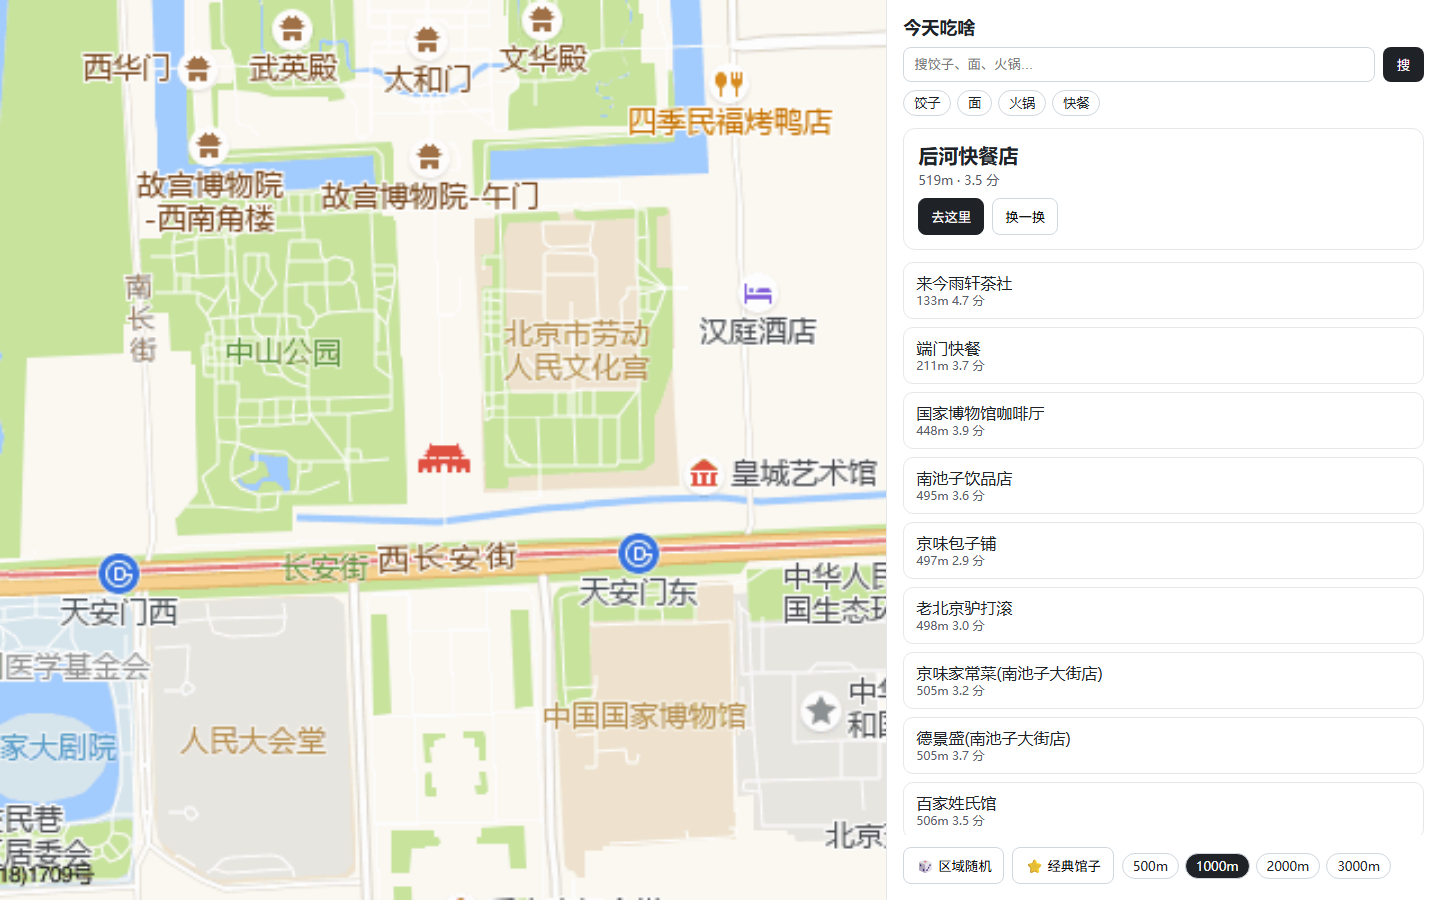
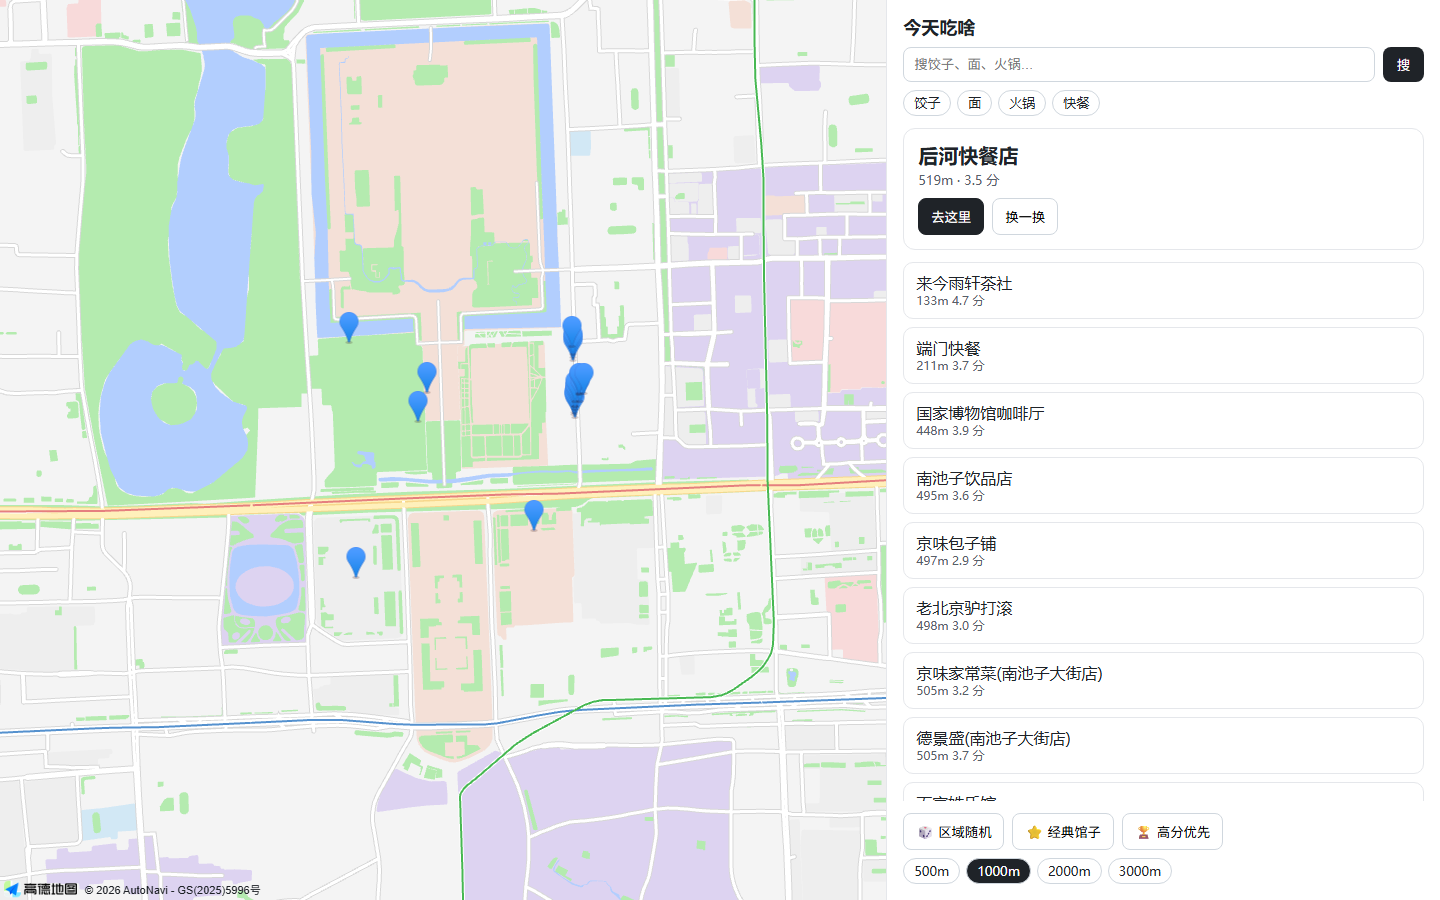
feat: 接入 JS API 交互地图与 /_AMapService 代理

diff --git a/web/app.js b/web/app.js
@@ -1,6 +1,6 @@
 const state = {
   config: null, lat: null, lng: null, radius: 1000, mode: 'area', nonce: 0,
-  map: null, markers: [], selectedId: null, lock: false,
+  map: null, markers: [], selectedId: null, lock: false, lastItems: [],
 };
 
 const $ = (sel) => document.querySelector(sel);
@@ -65,6 +65,7 @@ function renderList(items) {
 }
 
 function renderMarkers(items) {
+  state.lastItems = items;
   if (!state.map || !window.AMap) return;
   state.map.remove(state.markers);
   state.markers = items.slice(0, 20).map((p) => new AMap.Marker({
@@ -72,6 +73,27 @@ function renderMarkers(items) {
   }));
   state.map.add(state.markers);
   state.markers.forEach((m) => m.on('click', () => select(m.getExtData())));
+}
+
+function ensureMap() {
+  if (state.map || !window.AMap) return;
+  $('#map-fallback').hidden = true;
+  $('#map').hidden = false;
+  state.map = new AMap.Map('map', { center: [state.lng, state.lat], zoom: 15, viewMode: '2D' });
+  renderMarkers(state.lastItems || []);
+}
+
+function showFallback() {
+  if (state.map) return;
+  $('#map').hidden = true;
+  $('#map-fallback').hidden = false;
+  if (!$('#map-fallback').querySelector('img')) {
+    const img = document.createElement('img');
+    img.src = `/api/staticmap?lat=${state.lat}&lng=${state.lng}`;
+    img.alt = '附近地图';
+    img.style.cssText = 'width:100%;height:100%;object-fit:cover';
+    $('#map-fallback').appendChild(img);
+  }
 }
 
 function select(poi) {
@@ -123,17 +145,11 @@ async function search(q) {
 }
 
 function initMap() {
-  if (!window.AMap) {
-    $('#map').hidden = true;
-    $('#map-fallback').hidden = false;
-    const img = document.createElement('img');
-    img.src = `/api/staticmap?lat=${state.lat}&lng=${state.lng}`;
-    img.alt = '附近地图';
-    img.style.cssText = 'width:100%;height:100%;object-fit:cover';
-    $('#map-fallback').appendChild(img);
-    return;
+  if (window.AMap) {
+    ensureMap();
+  } else {
+    showFallback();
   }
-  state.map = new AMap.Map('map', { center: [state.lng, state.lat], zoom: 15, viewMode: '2D' });
 }
 
 async function boot() {
@@ -146,12 +162,16 @@ async function boot() {
   state.lng = geo ? geo.lng : cfg.defaultCenter.lng;
 
   if (cfg.jsKey) {
-    window._AMapSecurityConfig = { serviceHost: cfg.securityServiceHost || location.host };
+    // serviceHost 必须是「源 + 代理前缀」的完整地址，否则 JS API 会把主机名当成路径拼出来
+    window._AMapSecurityConfig = { serviceHost: `${location.origin}/_AMapService` };
     await new Promise((resolve) => {
       const s = document.createElement('script');
       s.src = `https://webapi.amap.com/maps?v=2.0&key=${cfg.jsKey}`;
-      s.onload = resolve;
-      s.onerror = resolve;
+      let settled = false;
+      const done = () => { if (!settled) { settled = true; resolve(); } };
+      s.onload = () => { done(); if (window.AMap && !state.map) ensureMap(); };
+      s.onerror = done;
+      setTimeout(done, 6000);
       document.head.appendChild(s);
     });
   }

diff --git a/scripts/cdp_check.py b/scripts/cdp_check.py
@@ -1,0 +1,57 @@
+"""用 Chrome DevTools Protocol 检查页面里 AMap 是否真的初始化成功。
+
+用法：先启动 chrome --headless=new --remote-debugging-port=9223 --remote-allow-origins=* <url>，
+再执行 python scripts/cdp_check.py [http://127.0.0.1:9223]
+"""
+import json
+import sys
+import time
+
+import httpx
+from websockets.sync.client import connect
+
+BASE = sys.argv[1] if len(sys.argv) > 1 else "http://127.0.0.1:9223"
+
+EXPR = """JSON.stringify({
+  amap: typeof window.AMap,
+  container: !!document.querySelector('.amap-container'),
+  canvas: !!document.querySelector('.amap-container canvas'),
+  items: document.querySelectorAll('.item').length,
+  fallbackShown: !document.querySelector('#map-fallback').hidden,
+  fallbackImg: !!document.querySelector('#map-fallback img'),
+  pick: (document.querySelector('#daily-card .name') || {}).textContent || '',
+  notice: (document.querySelector('#daily-card .notice') || {}).textContent || ''
+})"""
+
+
+def main() -> int:
+    targets = httpx.get(f"{BASE}/json/list", timeout=5).json()
+    page = next((t for t in targets if t.get("type") == "page"), None)
+    if page is None:
+        print("no page target")
+        return 1
+
+    with connect(page["webSocketDebuggerUrl"], open_timeout=10, close_timeout=5) as ws:
+        ws.send(json.dumps({"id": 1, "method": "Runtime.enable"}))
+        time.sleep(0.5)
+        deadline = time.time() + 5
+        while time.time() < deadline:
+            try:
+                ws.recv(timeout=1)
+            except TimeoutError:
+                break
+
+        time.sleep(8)
+        ws.send(json.dumps({"id": 2, "method": "Runtime.evaluate",
+                            "params": {"expression": EXPR, "returnByValue": True}}))
+        while True:
+            msg = json.loads(ws.recv(timeout=10))
+            if msg.get("id") == 2:
+                break
+    result = msg["result"]["result"]
+    print(result.get("value") or result)
+    return 0
+
+
+if __name__ == "__main__":
+    raise SystemExit(main())

diff --git a/app/routes.py b/app/routes.py
@@ -3,6 +3,7 @@ import time
 from datetime import datetime
 from zoneinfo import ZoneInfo
 
+import httpx
 from fastapi import APIRouter, Request
 from fastapi.responses import JSONResponse, Response
 
@@ -222,6 +223,26 @@ def delete_classic(request: Request, poiid: str):
     if not ok:
         return JSONResponse(status_code=403, content={"detail": "forbidden"})
     return _envelope({"ok": True}, Meta())
+
+
+@router.get("/_AMapService/{path:path}")
+async def amap_proxy(request: Request, path: str):
+    """把 JS API 的安全密钥注入后转发给高德，前端不暴露 jscode。
+
+    生产环境可以交给 Nginx 做同一件事；这里保留是因为本地开发没有 Nginx 也能跑通 2.0。
+    """
+    params = dict(request.query_params)
+    code = request.app.state.settings.amap_security_code
+    if code:
+        params["jscode"] = code
+    host = "https://webapi.amap.com" if path.startswith("v4/map/styles") else "https://restapi.amap.com"
+    async with httpx.AsyncClient(timeout=10.0) as client:
+        try:
+            resp = await client.get(f"{host}/{path}", params=params)
+        except httpx.HTTPError:
+            return JSONResponse(status_code=502, content={"detail": "amap_proxy_unavailable"})
+    return Response(content=resp.content, status_code=resp.status_code,
+                    media_type=resp.headers.get("content-type"))
 
 
 @router.get("/api/staticmap")

diff --git a/tests/test_routes.py b/tests/test_routes.py
@@ -1,6 +1,8 @@
 from datetime import date as date_cls, timedelta
 
+import httpx
 import pytest
+import respx
 from fastapi.testclient import TestClient
 
 from app.config import Settings
@@ -34,7 +36,8 @@ class FakeAmap:
 
 @pytest.fixture
 def client(tmp_path):
-    app = create_app(Settings(_env_file=None, db_path=str(tmp_path / "t.db"), admin_token="secret"))
+    app = create_app(Settings(_env_file=None, db_path=str(tmp_path / "t.db"),
+                              admin_token="secret", amap_security_code="sc"))
     app.state.client = FakeAmap()
     return TestClient(app)
 
@@ -118,6 +121,16 @@ def test_classic_pick_has_computed_distance(client):
                 headers={"X-Client-Token": "tok-a"})
     body = client.get("/api/today", params={"lat": 39.91, "lng": 116.40, "mode": "classic"}).json()
     assert body["data"]["pick"]["distance"] is not None
+
+
+@respx.mock
+def test_amap_proxy_injects_jscode(client):
+    route = respx.get("https://restapi.amap.com/v3/ip").mock(
+        return_value=httpx.Response(200, json={"status": "1", "info": "OK"}))
+    r = client.get("/_AMapService/v3/ip", params={"key": "k"})
+    assert r.status_code == 200
+    assert route.called
+    assert "jscode=sc" in str(route.calls[0].request.url)
 
 
 def test_staticmap_returns_png(client):

diff --git a/README.md b/README.md
@@ -17,7 +17,18 @@ uvicorn app.main:app --reload --port 8000
 打开 http://127.0.0.1:8000 。
 
 - 没有 `AMAP_JS_KEY` 时，左栏自动降级为静态地图图片（`/api/staticmap`）；
-- 想用交互式地图，再申请「Web端 (JS API)」key 与安全密钥，填 `AMAP_JS_KEY` / `AMAP_SECURITY_CODE`，并在 Nginx 配置 `/_AMapService/` 反代。
+- 配好 `AMAP_JS_KEY` 后左栏是真正的交互地图。JS API 2.0 的 `securityJsCode` 不能放在前端，本项目内置了 `/_AMapService/` 反向代理（见 `app/routes.py` 的 `amap_proxy`），把 `AMAP_SECURITY_CODE` 填进 `.env` 即可，本地开发不需要 Nginx；
+- 前端把 `serviceHost` 设为 `${location.origin}/_AMapService`，这个值必须是「源 + 前缀」的完整地址，只写主机名会让 JS API 把主机名拼进路径。
+
+页面自检（需要 Chrome）：
+
+```powershell
+chrome --headless=new --disable-gpu --remote-debugging-port=9223 --remote-allow-origins=* `
+  --user-data-dir=.chrome-tmp http://127.0.0.1:8000
+python scripts/cdp_check.py
+```
+
+输出里 `container=false` 说明地图没起来（多半是 key 平台不是「Web端 (JS API)」）。
 
 ## 测试
 
